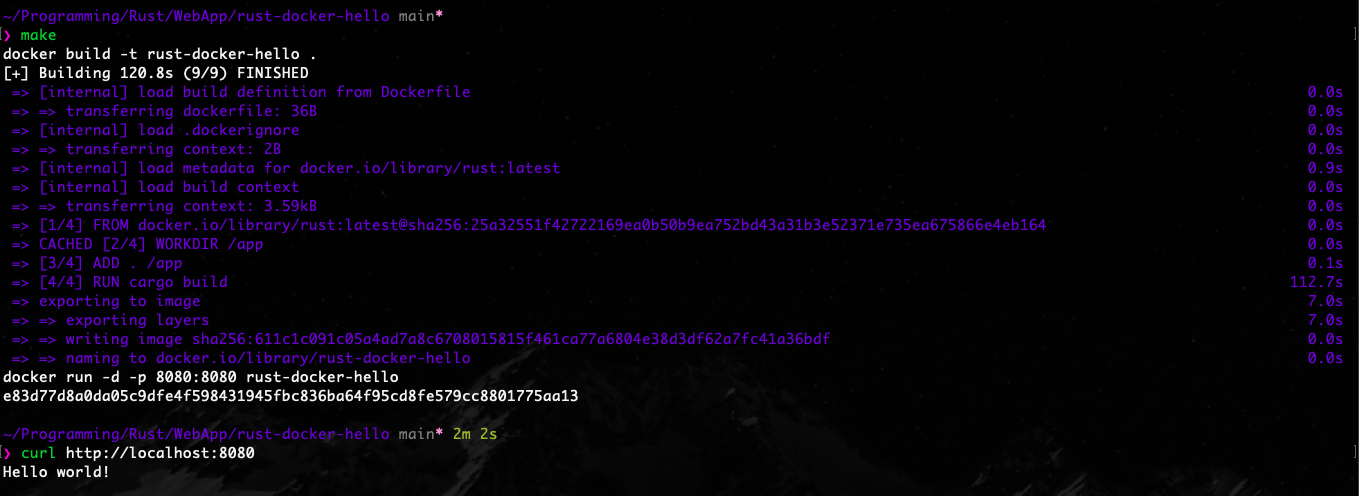
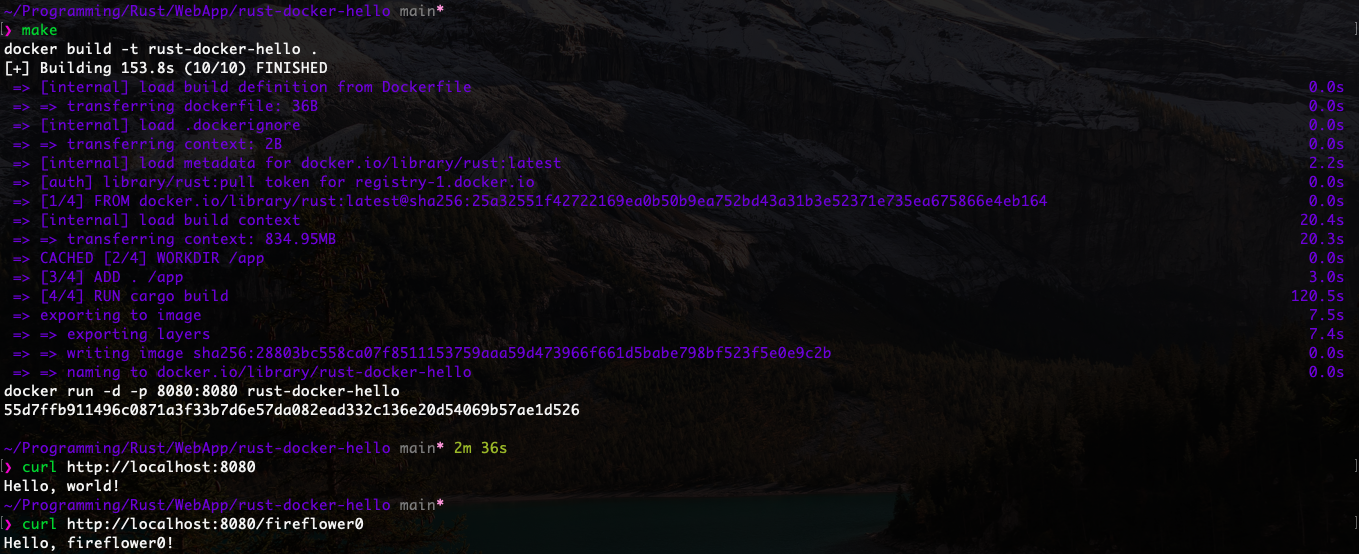
Fixed a src

diff --git a/src/main.rs b/src/main.rs
@@ -1,13 +1,22 @@
-use actix_web::{get, App, HttpServer};
+use actix_web::{get, web, App, HttpServer, Responder};
 
 #[get("/")]
-async fn index() -> &'static str {
-    "Hello world!\r\n"
+async fn index() -> impl Responder {
+    "Hello, world!"
+}
+
+#[get("/{name}")]
+async fn hello(web::Path(name): web::Path<String>) -> impl Responder {
+    format!("Hello, {}!", name)
 }
 
 #[actix_web::main]
 async fn main() -> std::io::Result<()> {
     HttpServer::new(|| {
-        App::new().service(index)
-    }).bind("0.0.0.0:8080")?.run().await
+        App::new()
+            .service(index)
+            .service(hello)
+    }).bind("0.0.0.0:8080")?
+        .run()
+        .await
 }
